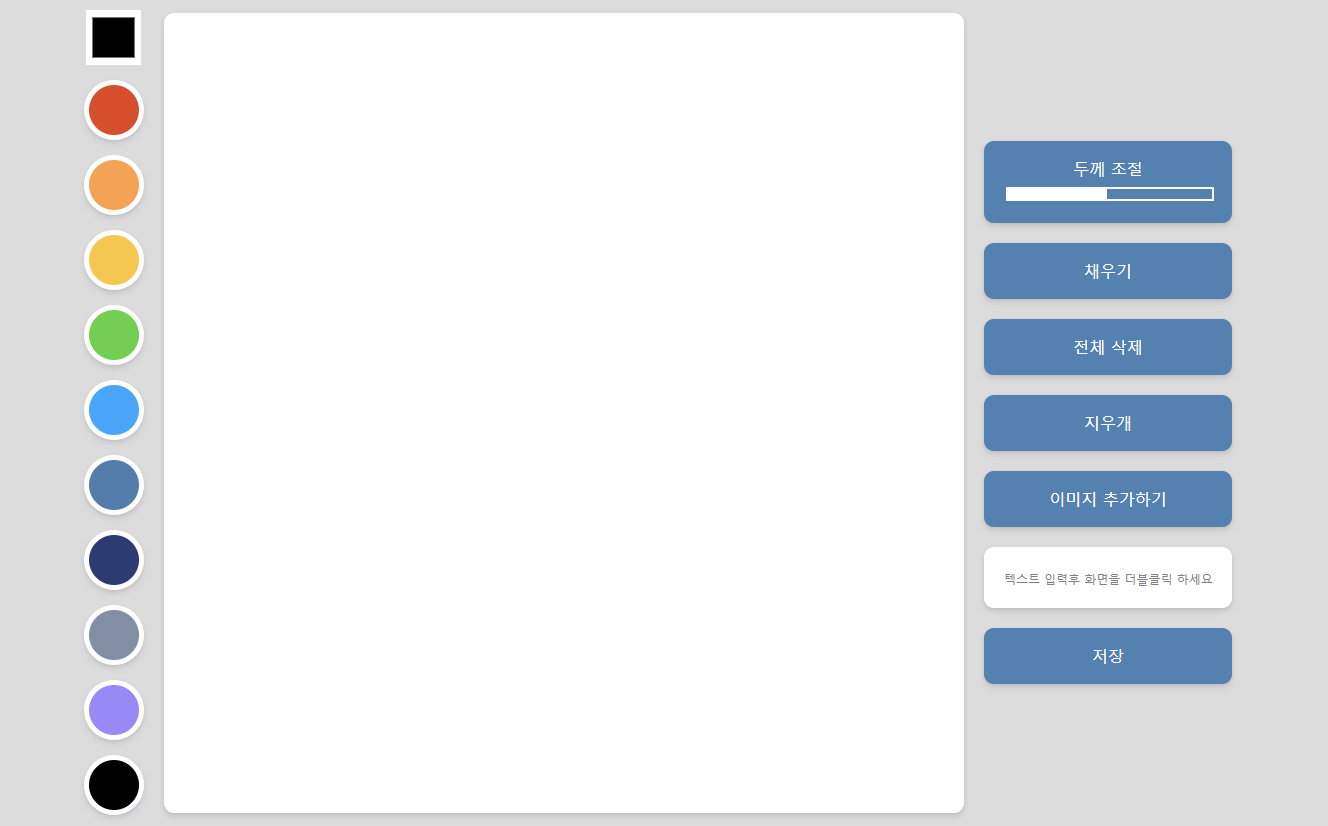
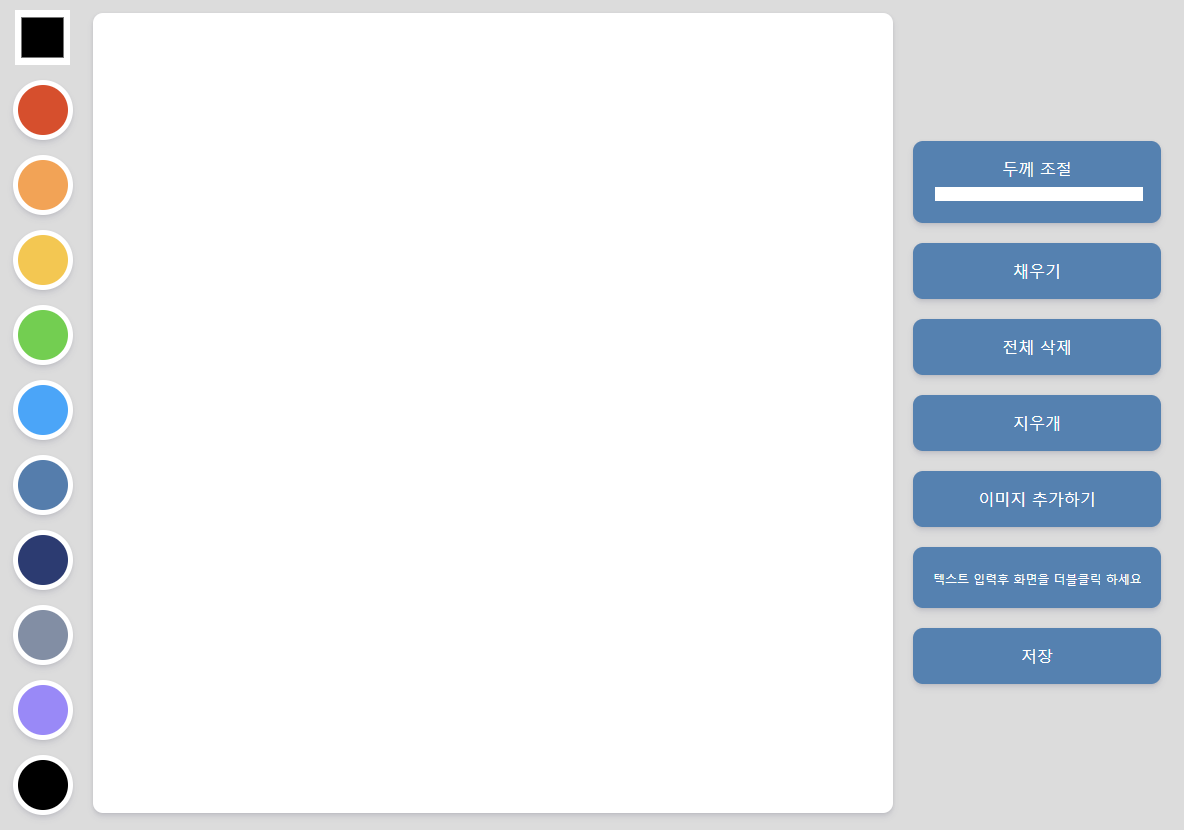
#5 Finish

Changed region(s): [[0.0, 0.0, 1.0, 0.9988]]

diff --git a/style.css b/style.css
@@ -56,7 +56,8 @@ input#color:hover {
 }
 
 button,
-label {
+label,
+input#text {
   all: unset;
   padding: 20px 20px;
   text-align: center;
@@ -77,20 +78,9 @@ input#file {
   display: none;
 }
 
-input#text {
-  all: unset;
-  padding: 20px 20px;
-  font-weight: 500;
-  text-align: center;
-  border-radius: 10px;
-  background-color: white;
-  box-shadow: 0 4px 6px rgba(50, 50, 93, 0.11), 0 1px 3px rgba(0, 0, 0, 0.08);
-}
-
 input#text::placeholder {
   font-size: 12px;
-  color: gray;
-  font-weight: 500;
+  color: white;
 }
 
 input[type="range"] {
